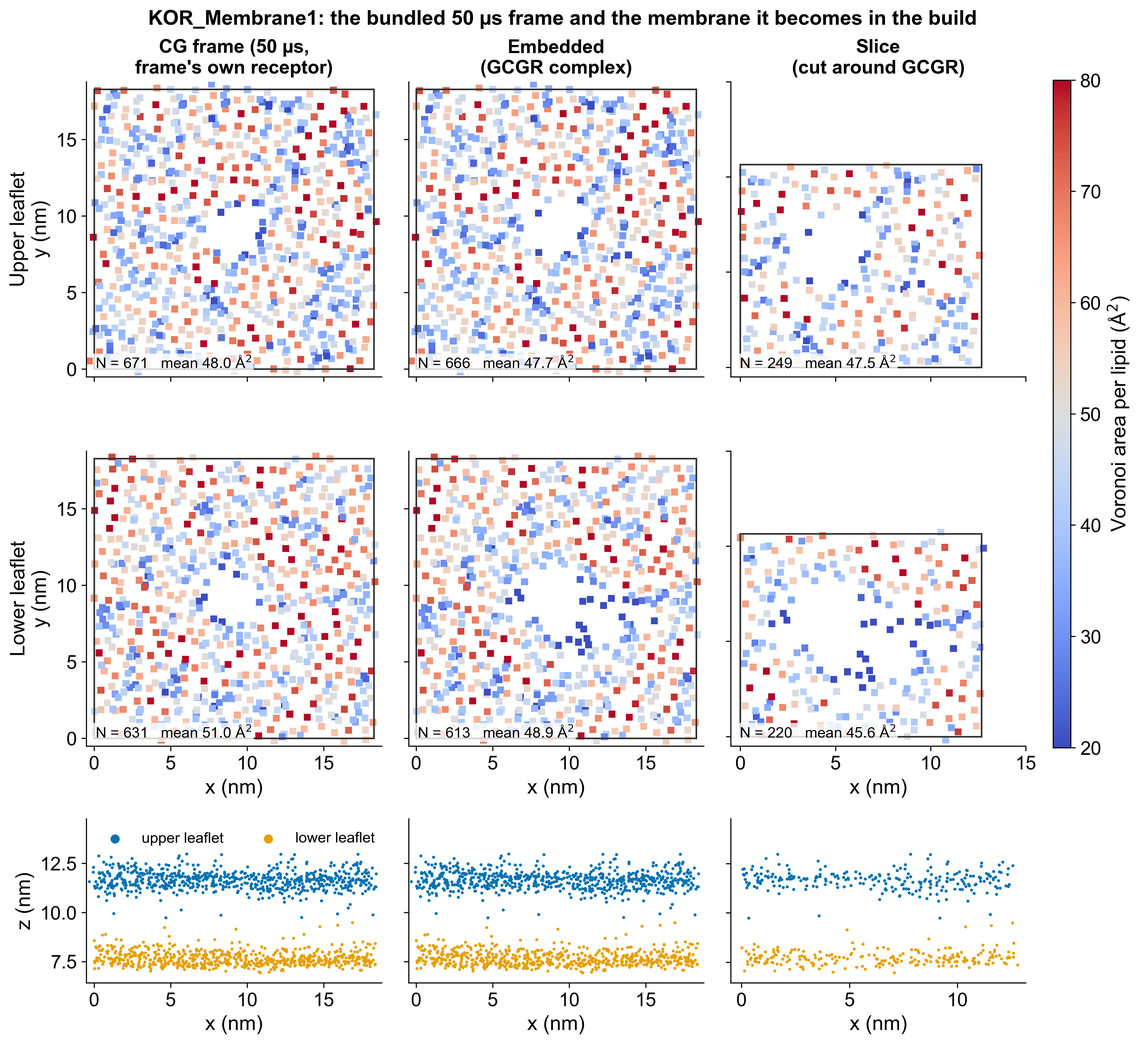
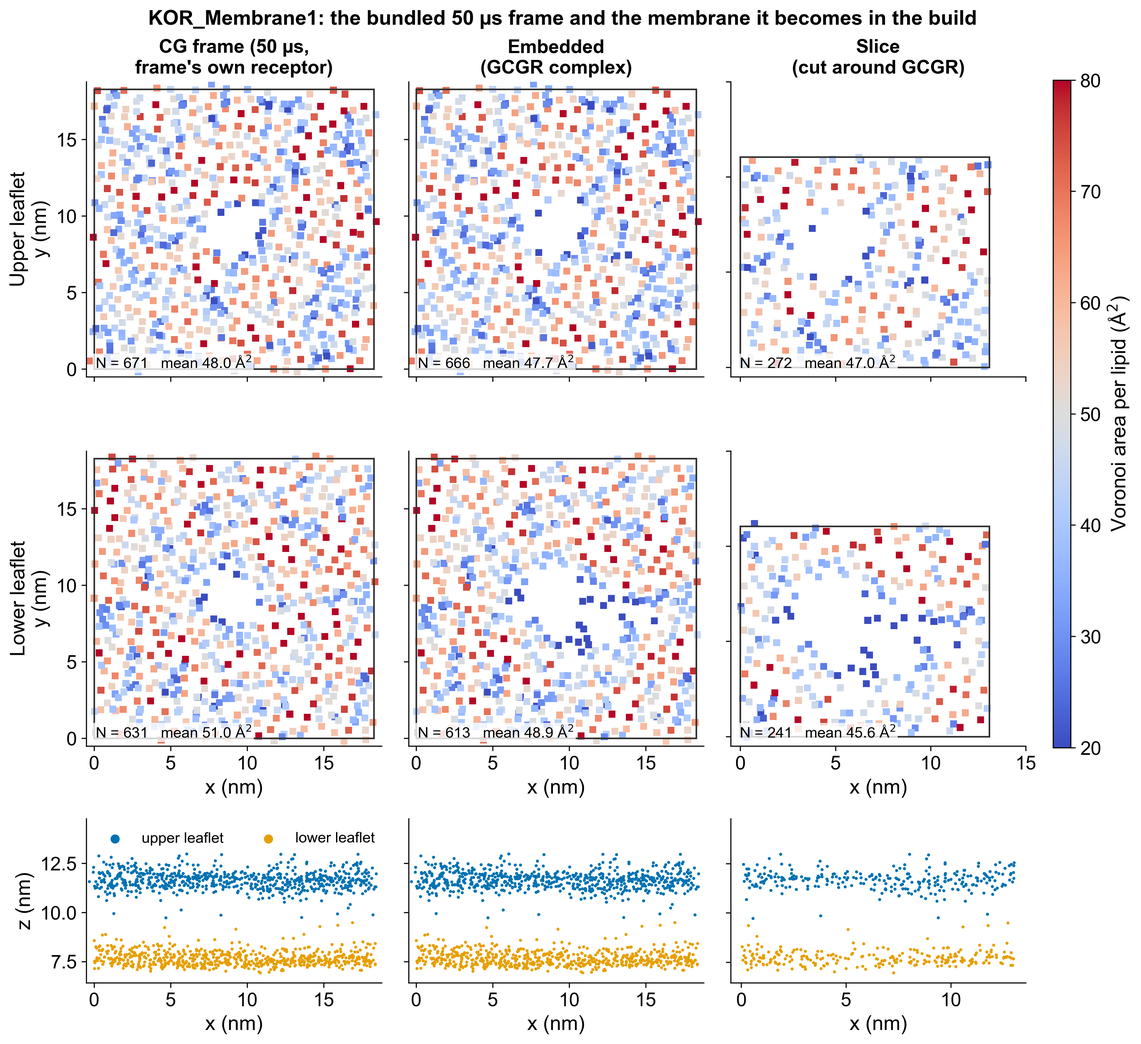
Re-measure the tutorial numbers on all 18 bundled frames
measure_tutorial_numbers.py on Gemini (jobs 39063255/39063256), figures and
tables from make_tutorial_figures.py. Embedding, slicing, seam, construction
and whole-cell deviation, the per-frame APL and first-shell tables and
figures 1 and 2 now cover the 18 frames. The offset search stops on
GPR139_Membrane5 (+5.5 % lower leaflet); the centred window passes everywhere.

diff --git a/membraneforger/docs/membraneforger_tutorial.md b/membraneforger/docs/membraneforger_tutorial.md
@@ -71,10 +71,10 @@ kept lipids moved and how much their shape changed, and the closest remaining be
 
 Why: the earlier rule removed every lipid with any bead within 0.40 nm. A G protein's lipid anchors (the Ggamma
 geranylgeranyl chain, the Galpha N-terminus) reach into the inner leaflet, and with the GCGR–Gs complex
-that rule deleted every one of the 78-96 lipids touching the complex on the 8 bundled frames, many of them only for touching those
+that rule deleted every one of the 78-100 lipids touching the complex on the 18 bundled frames, many of them only for touching those
 anchors. Each deleted lipid took its whole tail with it, leaving an empty column in the inner leaflet that solvation does not fill (water is
 removed between the phosphate planes) and that the area-per-lipid gate cannot see (the Voronoi cells of the anchor
-atoms absorb it). The current rule removes 20-31 lipids on the 8 bundled 50 us frames. Removing only lipids whose headgroup
+atoms absorb it). The current rule removes 15-32 lipids on the 18 bundled 50 us frames. Removing only lipids whose headgroup
 anchor the complex occupies was also tried and rejected: next to a thin anchor it still deletes lipids whose volume
 nothing replaces.
 
@@ -82,14 +82,14 @@ nothing replaces.
 its PO4 plane) is sampled on a 0.1 nm grid; a point farther than 0.60 nm from every lipid bead and every heavy atom
 of the complex is empty, and touching empty points form a pocket (`membrane_voids`, periodic in x and y). A pocket
 larger than 1.0 nm^3, less than the volume of one phospholipid, stops the build before slicing, naming the leaflet and
-the position. On the 8 bundled 50 us frames with the GCGR complex: uncut frames 0.007-0.066 nm^3, this embedding
-0.019-0.272 nm^3. If the gate stops a build, the frame's cavity cannot be adapted to the
+the position. On the 18 bundled 50 us frames with the GCGR complex: uncut frames 0.001-0.291 nm^3, this embedding
+0.019-0.271 nm^3. If the gate stops a build, the frame's cavity cannot be adapted to the
 complex by moving lipids; use a coarse-grained frame of the complex itself (`--cg FILE`) or another frame.
 
 **Embedding site (`--embed-site`).** A bundled frame was equilibrated around a receptor, and where the receptor was
 it has a hole of the receptor's shape (empty acyl volume once the receptor is taken out). The default site, `hole`, puts the complex there, which suits another receptor of similar size. A much smaller
-complex cannot fill it: a single-pass protein (one transmembrane helix) left a pocket of 1.7-2.9 nm^3 in the receptor's hole of every bundled 50 us frame (2.87 nm^3 in GPR139, 2.53 nm^3 in KOR,
-1.68 nm^3 in KOR_Membrane5) even after the push, and the empty-pocket gate stops the build with a message naming the other site.
+complex cannot fill it: a single-pass protein (one transmembrane helix) left a pocket of 1.7-3.2 nm^3 in the receptor's hole of every bundled 50 us frame (3.18 nm^3 in GPR139_Membrane3, 2.53 nm^3 in
+KOR_Membrane1, 1.68 nm^3 in KOR_Membrane5) even after the push, and the empty-pocket gate stops the build with a message naming the other site.
 With `--embed-site free` the complex goes on unbroken membrane instead, and the push makes room for it. The site is
 chosen for the membrane that will be cut around the complex, not for its helix alone: the slice window (the
 complex's x/y extent plus `--xy-buffer`, or `--box`, plus the 0.5 nm crop offset the slicer may take;
@@ -100,7 +100,7 @@ a receptor bead, so the hole reaches that far past the bead centres); if no poin
 push. The receptor's beads count as solid in the pocket search, and after slicing the build checks the actual window
 again (`frame_protein_in_slice`). A single helix with the default 1 nm buffer gives a cell of
 about 4 nm, where the cut edges alone can move the APL past the slice gate; give it a larger buffer (`--xy-buffer 3`;
-with it all 8 bundled frames pass the slice gate with the centred window; the +5.4 % KOR_Membrane7 deviation reported for the offset-search build is not reproduced).
+with it all 18 bundled frames pass the slice gate with the centred window, the construction deviation within 2.7 %).
 
 The membrane that exists after this step is the **embedded membrane**. It is the reference every later stage is
 compared with: it is the membrane the slice is actually cut from. The uncut frame is also measured ("CG frame"
@@ -112,7 +112,7 @@ give a lower-leaflet APL of 57.3 A^2 with the CG protein and 48.3 A^2 with the f
 ![KOR before and after embedding: the bundled 50 us frame, the embedded membrane with GCGR, and the slice](figures/KOR_Membrane1_before_after.png)
 
 *Figure 1. The coarse-grained membrane of the KOR build at its three coarse-grained stages: the bundled 50 us frame
-with its own receptor, the membrane after embedding the GCGR complex, and the slice cut around it (1302, 1279 and 469
+with its own receptor, the membrane after embedding the GCGR complex, and the slice cut around it (1302, 1279 and 513
 lipids). Top-down view of each leaflet and side view (x-z), coloured by the Voronoi area per lipid. "After" means after
 embedding and slicing: the build does not equilibrate the coarse-grained membrane, and the figure is drawn by
 `membraneforger/examples/make_tutorial_figures.py`.*
@@ -141,18 +141,20 @@ the cell is not cut. The cut is made lipid by lipid:
    that crosses the new cell edge stays where it is (mstool runs with `pbc=True`, GROMACS wraps);
 5. the window is centred on the complex. Opt in to `--slice-offset-search` and it may be shifted on a cropped axis by
    up to 0.5 nm (never past the 0.5 nm minimum margin) in steps of 0.1 nm, to the offset whose lipid counts best match the
-   reference leaflet density and composition. Centred is the default because on the 8 bundled 50 us frames (GCGR complex)
-   the construction deviation of section 4 is smaller with the centred window (median 0.71 %, 95th percentile 1.88 %,
-   largest 2.19 %) than with the search (1.55, 3.39, 4.87 %), and the search gains nothing in the spread of the
-   whole-cell deviation. The trade-off is in the report: the centred slices of KOR_Membrane5, KOR_Membrane6 and KOR_Membrane9 sit 11-12 % below the
-   whole embedded cell in the lower leaflet (percentile 0.99-1.0 of the equal-size windows, PASS WITH WARNINGS), where
-   the search gave one construction warning (KOR_Membrane5 lower, +4.87 %);
+   reference leaflet density and composition. Centred is the default because on the 18 bundled 50 us frames (GCGR complex)
+   the construction deviation of section 4 is smaller with the centred window (median 0.94 %, 95th percentile 2.71 %,
+   largest 3.58 %) than with the search (1.27, 3.71, 4.13 % on the 17 frames it completes; on GPR139_Membrane5 it
+   reaches +5.5 % in the lower leaflet and the build stops), and the search narrows the spread of the whole-cell
+   deviation only in the upper leaflet (standard deviation 1.5 against 2.5 %; 2.8 % in the lower leaflet either way). The
+   trade-off is in the report: the centred slices of eight frames sit 6-17 % below the whole embedded cell in the lower
+   leaflet (PASS WITH WARNINGS on representativeness), where the search gave construction warnings above 3 % on five
+   frames (GPR139_Membrane7, GPR139_Membrane9, KOR_Membrane3, KOR_Membrane4, KOR_Membrane7; 3.5-4.1 %);
 6. the new periodic seam is relaxed in place at the coarse-grained level: a short steepest descent pushes apart
    beads of different lipids that only the cut brought within 0.30 nm of each other, with the complex as a fixed
    repulsive wall, every bead held near its position and every lipid held in shape by intramolecular distance
    restraints. Pairs that were already that close in the source frame are data and are left alone. Only a lipid
-   still in a hard-core overlap (< 0.15 nm) afterwards is removed; on the 8 bundled 50 us frames none was (the seam removed 0 lipids on all of them). The
-   relaxation moves 42-56 % of the lipids by 0.016-0.030 nm on average and 0.39 nm at most; KOR_Membrane1, KOR_Membrane7 and KOR_Membrane9 reach the 400-step cap, the converged frames take 154-260 steps.
+   still in a hard-core overlap (< 0.15 nm) afterwards is removed; on the 18 bundled 50 us frames none was (the seam removed 0 lipids on all of them). The
+   relaxation moves 42-56 % of the lipids by 0.016-0.028 nm on average and 0.39 nm at most; 13 frames reach the 400-step cap, the five that converge (GPR139_Membrane4, GPR139_Membrane9, KOR_Membrane3, KOR_Membrane5, KOR_Membrane7) take 122-396 steps.
 
 ### Why whole-lipid anchoring
 
@@ -260,53 +262,76 @@ count the all-beads-inside rule keeps in the same window, with the APL that coun
 |---|---:|---:|---:|---:|---:|---:|---|
 | CG frame (frame's own receptor) | 671 | 631 | 48.0 | 51.0 | | | |
 | Embedded CG membrane (reference) | 666 | 613 | 47.7 | 48.9 | reference | reference | |
-| Old all-beads-inside slice | 214 | 186 | 55.3 | 54.0 | +15.9 % | +10.4 % | FAIL |
-| New anchor slice, centred + relaxed seam | 249 | 220 | 47.5 | 45.6 | -0.4 % | -6.6 % | PASS |
-| same lipids in the uncut membrane | 249 | 220 | 47.6 | 45.5 | construction: -0.15 % | +0.16 % | PASS |
+| Old all-beads-inside slice | 225 | 200 | 56.8 | 54.9 | +19.1 % | +12.4 % | FAIL |
+| New anchor slice, centred + relaxed seam | 272 | 241 | 47.0 | 45.6 | -1.5 % | -6.7 % | PASS |
+| same lipids in the uncut membrane | 272 | 241 | 47.6 | 45.7 | construction: -1.24 % | -0.31 % | PASS |
 
-The old rule deleted 69 lipids whose anchor was inside the window because one tail bead
-crossed the edge. The new slice keeps them; the seam relaxation moved 219 lipids by 0.021 nm on average (0.39 nm at
-most) and removed none. The lower leaflet is 6.6 % denser than the whole embedded cell (percentile 0.75 of 144
+The old rule deleted 88 lipids whose anchor was inside the window because one tail bead
+crossed the edge. The new slice keeps them; the seam relaxation moved 238 lipids by 0.023 nm on average (0.33 nm at
+most) and removed none. The lower leaflet is 6.7 % denser than the whole embedded cell (percentile 0.75 of 144
 equal-size windows): the construction check passes, the difference is where the window sits. With the offset search
-(`--slice-offset-search`) the same frame gives 249 / 217 lipids, -0.4 % / -5.3 % against the whole cell and
-+1.2 % / +1.7 % construction deviation.
+(`--slice-offset-search`) the same frame gives 267 / 240 lipids, +0.4 % / -6.3 % against the whole cell and
++0.8 % / +0.5 % construction deviation.
 
-Over all 8 bundled 50 us frames (16 leaflets, GCGR complex, centred window) the construction deviation of the
-new slice has a median of 0.71 %, a 95th percentile of 1.88 % and a largest value of 2.19 % (1.55, 3.39 and 4.87 % with
-`--slice-offset-search`), so the 3 % warning level is not crossed on any frame; the old all-beads-inside rule would have failed on every frame
-(+14.0 to +19.2 % upper, +6.5 to +12.2 % lower, 68-91 fewer lipids). The whole-cell
-deviation of a correct crop scatters more (standard deviation 1.5 % upper and 2.4 % lower leaflet, worst case 14.3 %, lower leaflet of KOR_Membrane7), which is why it is reported as representativeness
-and not used to stop the build; three frames (KOR_Membrane5, KOR_Membrane6, KOR_Membrane9) end PASS WITH WARNINGS on it.
+Over all 18 bundled 50 us frames (36 leaflets, GCGR complex, centred window) the construction deviation of the
+new slice has a median of 0.94 %, a 95th percentile of 2.71 % and a largest value of 3.58 % (1.27, 3.71 and 4.13 % with
+`--slice-offset-search` on the 17 frames it completes; on GPR139_Membrane5 the search's lower leaflet reaches +5.5 % and the
+build stops), so the 3 % warning level is crossed on two leaflets (GPR139_Membrane6 upper, KOR_Membrane5 lower) and the 5 % limit
+on none; the old all-beads-inside rule would have failed on every frame
+(+11.1 to +22.9 % upper, +4.2 to +12.6 % lower, 69-97 fewer lipids). The whole-cell
+deviation of a correct crop scatters more (standard deviation 2.5 % upper and 2.8 % lower leaflet, worst case 16.7 %, lower leaflet of GPR139_Membrane3), which is why it is reported as representativeness
+and not used to stop the build; eight frames (GPR139_Membrane1, 2, 3, 6 and 8, KOR_Membrane5, 6 and 8) end PASS WITH WARNINGS on it.
 
 The repaired slice therefore preserves the embedded membrane's packing to within 2-3 % per leaflet on the
-representative cases and within 5 % on every bundled frame tested; it does not preserve it "perfectly", and the
+representative cases and within 4 % on every bundled frame tested; it does not preserve it "perfectly", and the
 report says by how much.
 
-Area per lipid (A^2, Voronoi, protein footprint excluded) at each stage for the 8 bundled frames with the GCGR complex
+Area per lipid (A^2, Voronoi, protein footprint excluded) at each stage for the 18 bundled frames with the GCGR complex
 (centred window; the last column is the construction deviation with `--slice-offset-search`). "Uncut" is the same lipids as the slice, in the embedded membrane; the construction
 deviation is the slice against them. Head-plane is the area per phosphate/amide anchor (section 5.2).
 
 | Frame | Leaflet | CG frame | Embedded | Slice | Uncut | Construction | Head-plane embedded | Head-plane slice | Construction, offset search |
 |---|---|---:|---:|---:|---:|---:|---:|---:|---:|
-| KOR_Membrane1 | upper | 47.99 | 47.72 | 47.54 | 47.61 | -0.15 % | 65.72 | 63.80 | +1.17 % |
-| KOR_Membrane1 | lower | 51.04 | 48.87 | 45.62 | 45.55 | +0.16 % | 63.47 | 59.00 | +1.73 % |
-| KOR_Membrane2 | upper | 47.87 | 47.64 | 45.95 | 45.64 | +0.69 % | 65.84 | 62.48 | +2.90 % |
-| KOR_Membrane2 | lower | 51.66 | 49.29 | 44.14 | 43.82 | +0.73 % | 63.47 | 55.90 | -0.58 % |
-| KOR_Membrane3 | upper | 47.36 | 47.24 | 45.82 | 45.65 | +0.38 % | 66.06 | 63.00 | +1.65 % |
-| KOR_Membrane3 | lower | 52.11 | 50.06 | 45.90 | 45.67 | +0.50 % | 63.71 | 58.39 | +1.46 % |
-| KOR_Membrane5 | upper | 46.76 | 46.79 | 45.38 | 45.05 | +0.73 % | 65.37 | 63.28 | -0.39 % |
-| KOR_Membrane5 | lower | 51.63 | 49.19 | 43.11 | 43.21 | -0.23 % | 62.38 | 55.82 | +4.87 % |
-| KOR_Membrane6 | upper | 47.12 | 46.90 | 47.19 | 46.37 | +1.77 % | 65.51 | 66.66 | +0.12 % |
-| KOR_Membrane6 | lower | 51.92 | 49.76 | 44.03 | 45.02 | -2.19 % | 63.29 | 56.55 | +1.95 % |
-| KOR_Membrane7 | upper | 46.90 | 46.68 | 45.29 | 45.81 | -1.14 % | 66.05 | 63.73 | +0.37 % |
-| KOR_Membrane7 | lower | 52.72 | 50.38 | 43.26 | 42.71 | +1.30 % | 63.24 | 55.72 | +2.26 % |
-| KOR_Membrane9 | upper | 47.75 | 47.64 | 46.52 | 46.63 | -0.25 % | 66.35 | 63.94 | +1.70 % |
-| KOR_Membrane9 | lower | 51.89 | 50.33 | 44.89 | 45.07 | -0.41 % | 64.16 | 57.91 | -0.65 % |
-| GPR139_Membrane5 | upper | 46.86 | 46.95 | 47.03 | 46.25 | +1.69 % | 65.80 | 65.07 | +2.09 % |
-| GPR139_Membrane5 | lower | 51.39 | 49.70 | 46.02 | 46.52 | -1.08 % | 63.66 | 59.51 | +0.52 % |
+| KOR_Membrane1 | upper | 47.99 | 47.72 | 47.01 | 47.6 | -1.24 % | 65.72 | 63.12 | +0.76 % |
+| KOR_Membrane1 | lower | 51.04 | 48.87 | 45.58 | 45.72 | -0.31 % | 63.47 | 59.67 | +0.49 % |
+| KOR_Membrane2 | upper | 47.87 | 47.64 | 46.39 | 46.04 | +0.77 % | 65.84 | 63.48 | +2.02 % |
+| KOR_Membrane2 | lower | 51.66 | 49.29 | 44.97 | 44.53 | +0.98 % | 63.47 | 57.38 | -0.26 % |
+| KOR_Membrane3 | upper | 47.36 | 47.24 | 45.77 | 45.65 | +0.27 % | 66.06 | 63.33 | +0.58 % |
+| KOR_Membrane3 | lower | 52.11 | 49.99 | 47.06 | 46.27 | +1.70 % | 63.59 | 59.82 | +3.67 % |
+| KOR_Membrane4 | upper | 48.1 | 47.97 | 46.99 | 46.9 | +0.19 % | 65.96 | 63.44 | +1.06 % |
+| KOR_Membrane4 | lower | 50.8 | 48.53 | 45.04 | 43.91 | +2.58 % | 63.18 | 58.19 | +3.52 % |
+| KOR_Membrane5 | upper | 46.76 | 46.79 | 44.89 | 45.57 | -1.50 % | 65.37 | 62.35 | +0.66 % |
+| KOR_Membrane5 | lower | 51.63 | 49.19 | 44.55 | 43.21 | +3.10 % | 62.38 | 58.05 | +1.83 % |
+| KOR_Membrane6 | upper | 47.12 | 46.9 | 46.5 | 46.87 | -0.79 % | 65.51 | 65.01 | +1.65 % |
+| KOR_Membrane6 | lower | 51.92 | 49.76 | 44.65 | 45.34 | -1.52 % | 63.29 | 57.41 | +0.21 % |
+| KOR_Membrane7 | upper | 46.9 | 46.68 | 45.76 | 46.18 | -0.90 % | 66.05 | 64.34 | +0.63 % |
+| KOR_Membrane7 | lower | 52.72 | 50.38 | 43.98 | 43.31 | +1.55 % | 63.24 | 56.13 | +3.66 % |
+| KOR_Membrane8 | upper | 48.05 | 48.2 | 46.88 | 45.95 | +2.02 % | 66.6 | 65.93 | -0.04 % |
+| KOR_Membrane8 | lower | 51.2 | 49.11 | 43.99 | 44.09 | -0.24 % | 63.8 | 58.29 | -0.69 % |
+| KOR_Membrane9 | upper | 47.75 | 47.64 | 46.58 | 46.57 | +0.02 % | 66.35 | 64.21 | +2.54 % |
+| KOR_Membrane9 | lower | 51.89 | 50.33 | 46.05 | 45.85 | +0.43 % | 64.16 | 58.99 | +0.91 % |
+| GPR139_Membrane1 | upper | 46.87 | 46.98 | 44.04 | 44.68 | -1.42 % | 64.75 | 62.28 | +2.34 % |
+| GPR139_Membrane1 | lower | 50.12 | 48.45 | 45.27 | 45.49 | -0.49 % | 62.91 | 58.94 | +0.71 % |
+| GPR139_Membrane2 | upper | 47.39 | 47.39 | 48.21 | 47.35 | +1.81 % | 65.13 | 65.16 | +2.09 % |
+| GPR139_Membrane2 | lower | 50.06 | 48.43 | 44.12 | 44.32 | -0.44 % | 63.27 | 58.45 | +2.30 % |
+| GPR139_Membrane3 | upper | 46.57 | 46.55 | 47.01 | 46.9 | +0.24 % | 64.99 | 65.66 | +1.49 % |
+| GPR139_Membrane3 | lower | 50.85 | 48.38 | 40.31 | 40.7 | -0.97 % | 61.37 | 52.64 | +1.33 % |
+| GPR139_Membrane4 | upper | 46.49 | 46.46 | 45.36 | 45.85 | -1.08 % | 65.0 | 62.41 | +1.20 % |
+| GPR139_Membrane4 | lower | 51.24 | 49.19 | 46.73 | 46.44 | +0.63 % | 62.91 | 58.55 | +2.08 % |
+| GPR139_Membrane5 | upper | 46.86 | 46.95 | 46.38 | 45.86 | +1.13 % | 65.8 | 64.27 | stopped |
+| GPR139_Membrane5 | lower | 51.39 | 49.7 | 46.73 | 46.88 | -0.32 % | 63.66 | 60.49 | +5.5 % (stopped) |
+| GPR139_Membrane6 | upper | 46.76 | 46.83 | 49.09 | 47.39 | +3.58 % | 65.48 | 66.37 | -0.28 % |
+| GPR139_Membrane6 | lower | 51.51 | 49.6 | 46.53 | 46.58 | -0.10 % | 62.83 | 58.04 | +0.81 % |
+| GPR139_Membrane7 | upper | 46.93 | 47.05 | 46.18 | 46.49 | -0.67 % | 65.15 | 63.04 | +1.11 % |
+| GPR139_Membrane7 | lower | 51.29 | 49.54 | 46.77 | 46.46 | +0.66 % | 63.7 | 59.23 | +3.78 % |
+| GPR139_Membrane8 | upper | 47.65 | 47.57 | 45.49 | 45.9 | -0.90 % | 65.59 | 63.92 | +1.71 % |
+| GPR139_Membrane8 | lower | 50.99 | 49.12 | 43.95 | 44.93 | -2.18 % | 63.69 | 56.58 | +1.58 % |
+| GPR139_Membrane9 | upper | 47.52 | 47.3 | 48.29 | 47.72 | +1.20 % | 65.17 | 63.65 | +0.28 % |
+| GPR139_Membrane9 | lower | 50.61 | 48.62 | 44.44 | 43.33 | +2.56 % | 63.02 | 58.88 | +4.13 % |
 
-The KOR rows are the stage table above. With the centred window no leaflet crosses the 3 % construction warning level; with
-the search `KOR_Membrane5` lower (+4.87 %) is the one that does (PASS WITH WARNINGS).
+The KOR_Membrane1 rows are the stage table above. With the centred window two leaflets cross the 3 % construction warning level
+(`GPR139_Membrane6` upper, +3.58 %; `KOR_Membrane5` lower, +3.10 %; PASS WITH WARNINGS); with the search five do (3.5-4.1 %) and
+`GPR139_Membrane5` lower (+5.5 %) crosses the 5 % limit, which stops the build.
 
 ### 5.4 Composition and leaflet asymmetry
 
@@ -361,7 +386,7 @@ tilted helix shifts laterally by up to 2 nm across a leaflet: against all protei
 total lipid density read 1.3-1.4 at the protein for a single-pass protein tilted 53 degrees (0.9-1.1 at headgroup
 depth). The CG frame stage is left out: its protein is the frame's own receptor, not the complex.
 
-![All-lipid density around the protein, slice stage, 8 bundled frames](figures/protein_density_by_frame.png)
+![All-lipid density around the protein, slice stage, 18 bundled frames](figures/protein_density_by_frame.png)
 
 *Figure 2. Cumulative density of all lipids within R of the protein over the leaflet mean, slice stage, GCGR complex,
 for each bundled frame and leaflet; 1 = as common as anywhere. The first shell (R = 10 A) is marked.*
@@ -370,18 +395,27 @@ Ratio at 10 A, with the lipids in the shell and in the leaflet in brackets:
 
 | Frame | Upper, embedded | Upper, slice | Lower, embedded | Lower, slice |
 |---|---|---|---|---|
-| KOR_Membrane1 | 1.12 (28/666) | 1.14 (28/249) | 1.37 (70/613) | 1.28 (70/220) |
-| KOR_Membrane2 | 1.15 (29/671) | 1.14 (29/258) | 1.44 (73/611) | 1.34 (73/225) |
-| KOR_Membrane3 | 1.35 (34/677) | 1.32 (34/260) | 1.33 (67/600) | 1.29 (68/217) |
-| KOR_Membrane5 | 1.30 (33/676) | 1.27 (33/262) | 1.55 (79/606) | 1.36 (79/236) |
-| KOR_Membrane6 | 1.14 (29/676) | 1.16 (29/252) | 1.46 (74/603) | 1.32 (74/228) |
-| KOR_Membrane7 | 0.98 (25/684) | 0.97 (25/261) | 1.51 (75/597) | 1.24 (74/234) |
-| KOR_Membrane9 | 1.24 (31/672) | 1.22 (31/255) | 1.35 (67/599) | 1.24 (67/224) |
-| GPR139_Membrane5 | 0.83 (21/672) | 0.85 (21/251) | 1.31 (66/597) | 1.30 (66/215) |
+| KOR_Membrane1 | 1.12 (28/666) | 1.12 (28/272) | 1.37 (70/613) | 1.25 (69/241) |
+| KOR_Membrane2 | 1.15 (29/671) | 1.11 (28/276) | 1.44 (73/611) | 1.34 (72/242) |
+| KOR_Membrane3 | 1.35 (34/677) | 1.31 (34/281) | 1.35 (68/601) | 1.33 (68/232) |
+| KOR_Membrane4 | 1.08 (27/662) | 1.08 (27/272) | 1.45 (75/618) | 1.40 (74/244) |
+| KOR_Membrane5 | 1.30 (33/676) | 1.26 (33/286) | 1.55 (79/606) | 1.43 (80/249) |
+| KOR_Membrane6 | 1.14 (29/676) | 1.14 (29/276) | 1.46 (74/603) | 1.34 (74/246) |
+| KOR_Membrane7 | 0.98 (25/684) | 0.98 (25/279) | 1.51 (75/597) | 1.26 (74/251) |
+| KOR_Membrane8 | 1.01 (25/662) | 0.95 (24/273) | 1.34 (68/608) | 1.24 (68/244) |
+| KOR_Membrane9 | 1.24 (31/672) | 1.22 (31/275) | 1.35 (67/599) | 1.26 (67/239) |
+| GPR139_Membrane1 | 0.87 (22/663) | 0.83 (22/290) | 1.31 (68/605) | 1.26 (66/241) |
+| GPR139_Membrane2 | 0.95 (24/660) | 1.03 (25/265) | 1.38 (71/607) | 1.31 (70/246) |
+| GPR139_Membrane3 | 0.67 (17/671) | 0.69 (17/269) | 1.74 (89/612) | 1.42 (91/274) |
+| GPR139_Membrane4 | 0.86 (22/675) | 0.86 (22/280) | 1.42 (72/599) | 1.39 (72/231) |
+| GPR139_Membrane5 | 0.83 (21/672) | 0.83 (21/275) | 1.31 (66/597) | 1.33 (67/232) |
+| GPR139_Membrane6 | 0.91 (23/672) | 0.96 (23/259) | 1.43 (72/598) | 1.38 (73/235) |
+| GPR139_Membrane7 | 1.03 (26/671) | 1.02 (26/278) | 1.23 (62/599) | 1.23 (62/233) |
+| GPR139_Membrane8 | 1.12 (28/666) | 1.09 (28/281) | 1.39 (71/610) | 1.27 (72/252) |
+| GPR139_Membrane9 | 0.95 (24/667) | 0.99 (24/265) | 1.53 (79/611) | 1.41 (79/249) |
 
-The lower leaflet is enriched next to the protein in every frame (1.24-1.55) and the upper leaflet ranges from depleted
-(GPR139, 0.83) to enriched (KOR_Membrane3, 1.35). Figure 2 was drawn from slices made with the offset search; the slice values in this table, from the default
-centred window, differ from it by at most 0.1.
+The lower leaflet is enriched next to the protein in every frame (1.23-1.74) and the upper leaflet ranges from depleted
+(GPR139_Membrane3, 0.67) to enriched (KOR_Membrane3, 1.35). Figure 2 is drawn from the same centred slices as the table.
 
 **Reading the minimized and trajectory .gro files.** The .gro format keeps 5 characters of a residue name (SAPI25 is
 written SAPI2) and the GM3 topology splits each molecule into four residues (CER160 BGLC BGAL ANE5AC, written CER16
@@ -544,10 +578,10 @@ carry the structure (POPC-POPC first peak 7.5 A, DOPC-DOPC 9.5 A, CHOL-CHOL 11.5
 deviation from the whole-cell curve is in addition graded
 against the empirical distribution of the same deviation over equal-size windows cut everywhere in the embedded
 membrane (below its 95th percentile PASS, below the 99th WARNING, above FAIL; a slice that deviates less than the
-parent's windows is never graded down): the slice must look like one of the parent's own windows. In the KOR build (50 us) the RMS difference against the same lipids uncut is 1.4
-(upper) and 1.5 (lower) noise units, and the POPC-POPC and DOPC-DOPC first peaks of
+parent's windows is never graded down): the slice must look like one of the parent's own windows. In the KOR build (50 us) the RMS difference against the same lipids uncut is 1.6
+(upper) and 1.7 (lower) noise units, and the POPC-POPC and DOPC-DOPC first peaks of
 the slice lay within one 1 A bin of the reference's. The slice therefore keeps the lateral organization of the
-membrane it was cut from. Against the whole embedded cell the KOR slice sits at the 0th (upper) and 31st (lower) percentile of
+membrane it was cut from. Against the whole embedded cell the KOR slice sits at the 0th (upper) and 18th (lower) percentile of
 the 144 equal-size windows (PASS); a window around the protein is not a typical window, which is representativeness,
 not a construction error.
 
@@ -627,7 +661,7 @@ turns every one into a PASS / WARNING / FAIL / INSUFFICIENT SAMPLING / REFERENCE
 
 The coarse-grained frame the build starts from is graded on its own before anything is embedded (gate 0,
 `MembraneValidation.validate_cg_frame`; there is no reference yet, so the limits are absolute and sit in
-`membrane_report.CG_FRAME_GATE`, set just outside what the eight bundled 50 us frames show). PASS /
+`membrane_report.CG_FRAME_GATE`, set just outside what the original eight bundled 50 us frames show). PASS /
 WARNING / FAIL: both leaflets populated (empty = FAIL); leaflet APL 42-60 A^2 (WARNING 30-100); headgroup-to-headgroup
 thickness 38-47 A (WARNING 28-56); PO4-normal tilt from z <= 5 deg (WARNING <= 10); non-sterol lipids whose headgroup and
 beads lie on opposite sides of the midplane <= 0.5 %; longest bead-to-bead link inside a lipid <= 0.8 nm (WARNING <= 1.0;

diff --git a/membraneforger/CHANGELOG.md b/membraneforger/CHANGELOG.md
@@ -7,8 +7,11 @@
   the unmodified `run50.gro` of its run (md5 checked against the simulation directory). `--cg 1` now draws from nine frames,
   `--runs N --cg 1` accepts N up to 9 and starts at `GPR139_Membrane1`, and `--runs 5 --cg 2` is KOR_Membrane1-5 (the docs and
   `gemini_GCGR.sbatch` still listed 1, 2, 3, 5, 6). All 18 frames pass the coarse-grained frame gate, no frame is rotated, and
-  the leaflet composition averaged over the 18 frames is unchanged to the whole percent. The per-frame tables of the tutorial
-  are still the original eight frames.
+  the leaflet composition averaged over the 18 frames is unchanged to the whole percent. The frame-dependent numbers of the tutorial
+  (embedding, slicing, seam, construction and whole-cell deviation, the per-frame APL and first-shell tables, figures 1 and 2)
+  were re-measured on the 18 frames with `measure_tutorial_numbers.py` (`slurm/examples/gemini_tutorial_numbers.sbatch`, new).
+  With the centred window every frame passes the slice gate (construction deviation median 0.94 %, largest 3.58 %); with
+  `--slice-offset-search` GPR139_Membrane5 reaches +5.5 % in the lower leaflet and stops.
 - **The E/Z configuration of the S-geranylgeranyl cysteine is checked and can be corrected.** A natural geranylgeranyl group is all-E, but the
   bundled GCGR-Gs input (and the models derived from it) carry the three CH=C(CH3) bonds of `CYSG` in Z (dihedral 0 to 5 degrees), which
   minimization and the force field keep. `--prenyl-configuration report` (default, as in earlier releases) warns, `yes` stops the build on a
